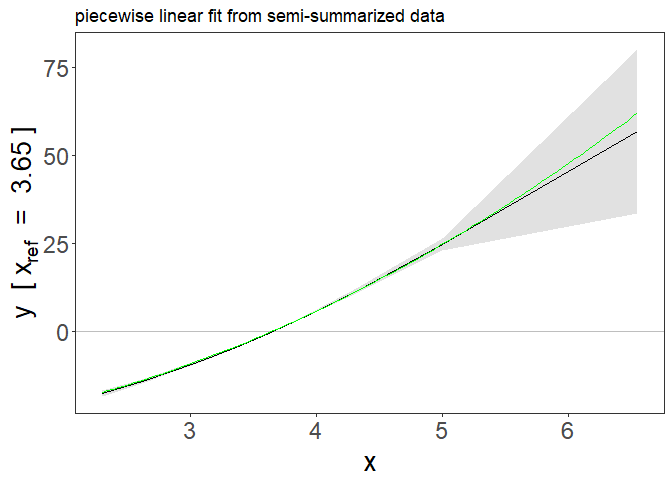
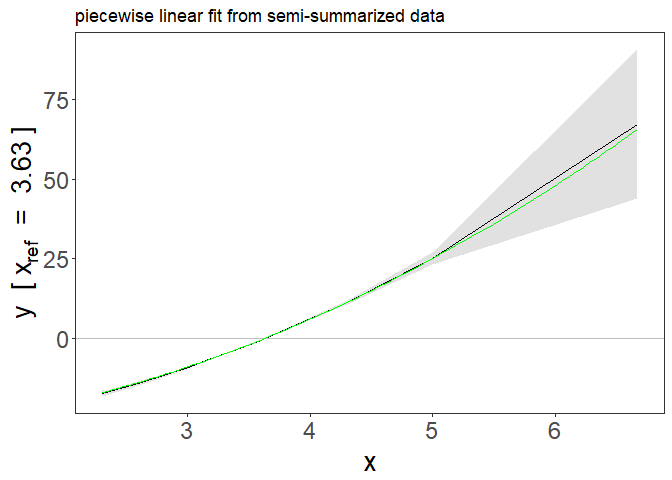
updated example

diff --git a/README.md b/README.md
@@ -52,6 +52,14 @@ You can install the released version of SUMnlmr from
 ``` r
 # install.packages("devtools")
 devtools::install_github("amymariemason/SUMnlmr")
+#> Warning: `install_github()` was deprecated in devtools 2.5.0.
+#> ℹ Please use pak::pak("user/repo") instead.
+#> This warning is displayed once per session.
+#> Call `lifecycle::last_lifecycle_warnings()` to see where this warning was
+#> generated.
+#> Using GitHub PAT from the git credential store.
+#> Skipping install of 'SUMnlmr' from a github remote, the SHA1 (ac958211) has not changed since last install.
+#>   Use `force = TRUE` to force installation
 ```
 
 ## Example 1: Summarizing data
@@ -60,27 +68,37 @@ This is a basic example which shows you how to create the
 semi-summarized data form. First we create some practice data:
 
 ``` r
-devtools::load_all()
-#> ℹ Loading SUMnlmr
-#library(SUMnlmr)
+#devtools::load_all()
+library(SUMnlmr)
+library(tidyr)
+library(dplyr)
+#> 
+#> Attaching package: 'dplyr'
+#> The following objects are masked from 'package:stats':
+#> 
+#>     filter, lag
+#> The following objects are masked from 'package:base':
+#> 
+#>     intersect, setdiff, setequal, union
+library(ggplot2)
 ## create some data to practise on
 test_data<-create_ind_data(N=10000, beta2=2, beta1=1)
 # this creates quadratic.Y  = x + 2x^2 + errorY 
 round(head(test_data), 2)
-#>   g    u errorX errorY    X linear.Y quadratic.Y sqrt.Y log.Y threshold.Y
-#> 1 2 0.51   5.90  -0.66 8.91     8.66      167.33   2.73  1.94        8.66
-#> 2 0 0.11   3.52   0.74 5.63     6.46       69.95   3.20  2.56        6.46
-#> 3 1 0.28   1.82  -0.04 4.35     4.53       42.33   2.26  1.65        4.53
-#> 4 0 0.32   1.51  -0.49 3.82     3.59       32.84   1.72  1.10        3.59
-#> 5 1 0.55   3.06  -0.73 5.86     5.57       74.26   2.13  1.48        5.57
-#> 6 0 0.55   0.19   0.50 2.75     3.69       18.76   2.60  1.96        3.69
+#>   g    u errorX errorY    X linear.Y quadratic.Y sqrt.Y log.Y threshold.Y y.bin
+#> 1 2 0.09   0.18   0.02 2.78     2.87       18.30   1.76  1.12        2.87     1
+#> 2 0 0.42   0.53  -0.62 2.95     2.67       20.08   1.43  0.80        2.67     0
+#> 3 0 0.58   0.73   1.05 3.31     4.82       26.69   3.33  2.71        4.82     0
+#> 4 0 0.07   1.24   0.35 3.32     3.72       25.72   2.23  1.61        3.72     0
+#> 5 0 0.94   0.74  -1.00 3.67     3.42       30.38   1.66  1.05        3.42     1
+#> 6 0 0.61   0.06  -0.77 2.67     2.38       16.60   1.35  0.70        2.38     0
 #>   fracpoly.Y
-#> 1      13.03
-#> 2       9.92
-#> 3       7.47
-#> 4       6.27
-#> 5       9.10
-#> 6       5.71
+#> 1       4.92
+#> 2       4.83
+#> 3       7.21
+#> 4       6.12
+#> 5       6.02
+#> 6       4.34
 ```
 
 Then we use create_nlmr_summary to summarise it.
@@ -100,12 +118,12 @@ summ_data<-create_nlmr_summary(y = test_data$quadratic.Y,
 
 round(head(summ_data$summary), 2)
 #>     bx   by bxse byse xmean xmin xmax
-#> 1 0.24 2.66 0.01 0.08  2.46 2.30 2.72
-#> 2 0.23 2.75 0.00 0.06  2.76 2.57 2.94
-#> 3 0.22 2.87 0.00 0.06  2.95 2.76 3.12
-#> 4 0.22 2.97 0.00 0.06  3.12 2.94 3.29
-#> 5 0.22 3.25 0.00 0.06  3.30 3.11 3.47
-#> 6 0.23 3.45 0.00 0.07  3.49 3.29 3.69
+#> 1 0.23 2.52 0.01 0.08  2.46 2.31 2.70
+#> 2 0.23 2.62 0.00 0.06  2.73 2.54 2.92
+#> 3 0.22 2.91 0.00 0.06  2.93 2.74 3.10
+#> 4 0.23 3.26 0.00 0.06  3.11 2.92 3.27
+#> 5 0.22 3.20 0.00 0.06  3.27 3.08 3.50
+#> 6 0.22 3.29 0.00 0.07  3.46 3.27 3.66
 ```
 
 Note 1: This example uses the residual method, which relies on
@@ -130,12 +148,12 @@ summ_covar<-create_nlmr_summary(y = test_data$quadratic.Y,
   
 round(head(summ_covar$summary), 2)
 #>     bx    by bxse byse xmean xmin xmax
-#> 1 0.02 -3.13    0 0.54  3.46 2.30 7.26
-#> 2 0.01 -0.72    0 0.02  2.96 2.57 2.91
-#> 3 0.01 -0.75    0 0.01  3.14 2.76 3.15
-#> 4 0.01 -0.76    0 0.01  3.36 2.91 5.48
-#> 5 0.01 -0.80    0 0.01  3.52 3.05 5.34
-#> 6 0.01 -0.80    0 0.01  3.71 3.18 5.21
+#> 1 0.02 -1.70    0 0.34  3.54 2.31 7.41
+#> 2 0.01 -0.69    0 0.02  3.00 2.55 2.91
+#> 3 0.01 -0.67    0 0.01  3.16 2.74 3.13
+#> 4 0.01 -0.69    0 0.01  3.28 2.90 3.34
+#> 5 0.01 -0.72    0 0.01  3.41 3.03 3.56
+#> 6 0.01 -0.74    0 0.01  3.66 3.17 5.21
 ```
 
 Note 2: Because the covariates are included as a matrix, lm cannot
@@ -162,12 +180,12 @@ summ_covar2<-create_nlmr_summary(y = test_data$quadratic.Y,
 
 round(head(summ_covar2$summary), 2)
 #>     bx   by bxse byse xmean xmin xmax
-#> 1 0.26 3.09 0.01 0.14  2.57 2.33 2.95
-#> 2 0.24 2.98 0.01 0.16  2.80 2.44 3.17
-#> 3 0.24 3.09 0.01 0.17  2.98 2.63 3.39
-#> 4 0.25 3.43 0.01 0.20  3.16 2.78 3.57
-#> 5 0.25 3.53 0.01 0.23  3.33 2.93 3.78
-#> 6 0.24 3.74 0.02 0.29  3.54 3.09 4.09
+#> 1 0.23 2.68 0.01 0.14  2.57 2.34 2.92
+#> 2 0.24 3.00 0.01 0.15  2.78 2.43 3.13
+#> 3 0.24 3.11 0.01 0.16  2.96 2.60 3.30
+#> 4 0.23 3.34 0.01 0.18  3.12 2.76 3.51
+#> 5 0.24 3.58 0.01 0.22  3.31 2.91 3.74
+#> 6 0.24 3.53 0.02 0.26  3.50 3.06 3.99
 ```
 
 These have used a single genetic variant count, but the method works
@@ -272,22 +290,21 @@ The corrected exposure **X − β\_{g×H}·(g×H)** is then used to form
 strata via the ranked method. Within-stratum genetic associations are
 estimated using `covar` as usual.
 
-To illustrate the difference, we simulate data where `modifier` strongly
-amplifies the effect of `g` on `X` (GxE coefficient = 1.5, compared to a
-main g effect of 0.25):
+To illustrate the difference, we simulate data where a modifier varies
+the effect of `g` on `X`
 
 ``` r
 
-set.seed(8341)
-N <- 10000
+set.seed(8343)
+N <- 100000
 
 gxe_g        <- rbinom(N, 2, 0.3)
-gxe_modifier <- rnorm(N)
-gxe_u        <- runif(N, 0, 1)
+gxe_modifier <- rnorm(N, 1, 1)
+gxe_u        <- rnorm(N, 1, 1)
 
 # X has a strong GxE: the effect of g on X scales with modifier
-gxe_X <- 2 + gxe_g * (0.25 + 1.5 * gxe_modifier) + gxe_u + rexp(N, 1)
-gxe_Y <- gxe_X + 2 * gxe_X^2 + 0.8 * gxe_u + rnorm(N)
+gxe_X <- 2 + 0.5*gxe_g + 0.3*gxe_modifier+ 0.2*gxe_modifier*gxe_g  + gxe_u + rnorm(N)
+gxe_Y <- 0.8 * gxe_u + rnorm(N)
 
 # Ranked method — no correction for the GxE
 summ_gxe_ranked <- create_nlmr_summary(
@@ -309,10 +326,8 @@ summ_gxe_interaction <- create_nlmr_summary(
 )
 ```
 
-In the ranked method, `bx` varies across strata (even
-turning negative in the lowest strata) because the strata are confounded
-with the modifier. The interaction method recovers approximately
-constant `bx` values close to the true main effect of 0.25:
+In this case, the ranked method `bx` varies across strata, while the
+interaction method produces more similar `bx` values.
 
 ``` r
 
@@ -322,17 +337,60 @@ data.frame(
   bx_interaction = round(summ_gxe_interaction$summary$bx, 2)
 )
 #>    stratum bx_ranked bx_interaction
-#> 1        1     -1.55           0.11
-#> 2        2     -0.90           0.29
-#> 3        3     -0.44           0.19
-#> 4        4     -0.05           0.17
-#> 5        5      0.27           0.27
-#> 6        6      0.51           0.25
-#> 7        7      0.71           0.07
-#> 8        8      0.91           0.39
-#> 9        9      1.23           0.14
-#> 10      10      1.63           0.42
+#> 1        1      0.59           0.62
+#> 2        2      0.63           0.65
+#> 3        3      0.65           0.65
+#> 4        4      0.67           0.68
+#> 5        5      0.68           0.68
+#> 6        6      0.69           0.68
+#> 7        7      0.71           0.70
+#> 8        8      0.72           0.70
+#> 9        9      0.74           0.72
+#> 10      10      0.79           0.76
 ```
+
+Similarly, looking at the lace estimates
+
+``` r
+data<- bind_rows(summ_gxe_ranked$summary %>% mutate(model="ranked"), summ_gxe_interaction$summary%>% mutate(model="interaction")) %>% 
+  mutate(
+ # Use abs() so the standard error remains positive when bx is negative.
+         lace_se = abs(byse / bx),
+         lace= by/bx,
+  # Confidence intervals for LACE
+         lace_lci = lace - 1.96 * lace_se,
+         lace_uci = lace + 1.96 * lace_se
+)
+  
+plot_lace <- ggplot(
+  data,
+  aes(x = xmean, y = lace, color = model)) +
+  geom_hline(
+    yintercept = 0,
+    linewidth = 0.1,
+    color = "black"
+  ) +
+  geom_point(
+    size = 2.0
+  ) +
+  geom_linerange(
+    aes(ymin = lace_lci, ymax = lace_uci),
+    linewidth = 0.8,
+    show.legend = FALSE
+  ) +
+  scale_x_continuous(
+  ) +
+  labs(
+    x = "X mean of stratum",
+    y = "LACE",
+    color = "Method"
+  ) +
+  theme_minimal() + facet_grid(.~model)
+
+plot_lace
+```
+
+<img src="man/figures/README-example3e_compare-1.png" alt="" width="100%" />
 
 Once your data is in this format, the output data frame is all you need
 to share to fit the fractional polynomial or piecewise linear models
@@ -365,14 +423,14 @@ summary(model)
 #> 
 #> Coefficients:
 #>   Estimate Std. Error 95%CI Lower 95%CI Upper   p.value    
-#> 2 2.173497   0.016894    2.140385      2.2066 < 2.2e-16 ***
+#> 2 2.200091   0.016644    2.167469      2.2327 < 2.2e-16 ***
 #> ---
 #> Signif. codes:  0 '***' 0.001 '**' 0.01 '*' 0.05 '.' 0.1 ' ' 1
 #> 
 #> Non-linearity tests
-#> Fractional polynomial degree p-value: 0.544
+#> Fractional polynomial degree p-value: 0.312
 #> Fractional polynomial non-linearity p-value: 0
-#> Quadratic p-value: 9.53e-64
+#> Quadratic p-value: 8.26e-67
 #> Cochran Q p-value: 0
 ```
 
@@ -410,7 +468,7 @@ And also testing the heterogeneity of the genetic-exposure associations:
 ``` r
 model$p_tests
 #>       fp_d1_d2 fp         quad Q
-#> [1,] 0.5436089  0 9.530291e-64 0
+#> [1,] 0.3119787  0 8.263185e-67 0
 
 model$p_heterogeneity
 #> NULL
@@ -437,21 +495,21 @@ summary(model2)
 #> 
 #> LACE:
 #>    Estimate Std. Error 95%CI Lower 95%CI Upper   p.value    
-#> 1  10.99674    0.38169    10.24863      11.745 < 2.2e-16 ***
-#> 2  12.06038    0.28170    11.50825      12.613 < 2.2e-16 ***
-#> 3  13.00691    0.29127    12.43602      13.578 < 2.2e-16 ***
-#> 4  13.23968    0.27268    12.70523      13.774 < 2.2e-16 ***
-#> 5  14.55665    0.27722    14.01331      15.100 < 2.2e-16 ***
-#> 6  15.19545    0.30532    14.59703      15.794 < 2.2e-16 ***
-#> 7  16.12712    0.37575    15.39065      16.864 < 2.2e-16 ***
-#> 8  17.65818    0.49879    16.68055      18.636 < 2.2e-16 ***
-#> 9  19.32462    0.87699    17.60572      21.044 < 2.2e-16 ***
-#> 10 20.69597    7.08301     6.81328      34.579  0.003479 ** 
+#> 1  11.00975    0.35793    10.30821      11.711 < 2.2e-16 ***
+#> 2  11.63049    0.27691    11.08774      12.173 < 2.2e-16 ***
+#> 3  13.06489    0.26623    12.54307      13.587 < 2.2e-16 ***
+#> 4  14.31205    0.27178    13.77936      14.845 < 2.2e-16 ***
+#> 5  14.32277    0.27282    13.78804      14.857 < 2.2e-16 ***
+#> 6  14.98851    0.30352    14.39361      15.583 < 2.2e-16 ***
+#> 7  16.39067    0.36739    15.67059      17.111 < 2.2e-16 ***
+#> 8  17.16016    0.51128    16.15805      18.162 < 2.2e-16 ***
+#> 9  19.59323    0.87449    17.87922      21.307 < 2.2e-16 ***
+#> 10 25.26508    6.55636    12.41461      38.115 0.0001164 ***
 #> ---
 #> Signif. codes:  0 '***' 0.001 '**' 0.01 '*' 0.05 '.' 0.1 ' ' 1
 #> 
 #> Non-linearity tests
-#> Quadratic p-value: 9.53e-64
+#> Quadratic p-value: 8.26e-67
 #> Cochran Q p-value: 0
 ```
 
@@ -502,17 +560,17 @@ summary(model3)
 #> 
 #> Number of individuals: NA; Quantiles: 10; 95%CI: Model based SEs
 #> 
-#> Powers: -1
+#> Powers: 3
 #> 
 #> Coefficients:
-#>    Estimate Std. Error 95%CI Lower 95%CI Upper p.value
-#> -1  1.72861    1.35904    -0.93512      4.3923  0.2034
+#>     Estimate Std. Error 95%CI Lower 95%CI Upper p.value
+#> 3  0.0019138  0.0032812  -0.0045173      0.0083  0.5597
 #> 
 #> Non-linearity tests
-#> Fractional polynomial degree p-value: 0.889
-#> Fractional polynomial non-linearity p-value: 0.508
-#> Quadratic p-value: 0.611
-#> Cochran Q p-value: 0.68
+#> Fractional polynomial degree p-value: 0.978
+#> Fractional polynomial non-linearity p-value: 0.774
+#> Quadratic p-value: 0.835
+#> Cochran Q p-value: 0.878
 ```
 
 <img src="man/figures/README-bin-1.png" alt="" width="100%" /> Not
